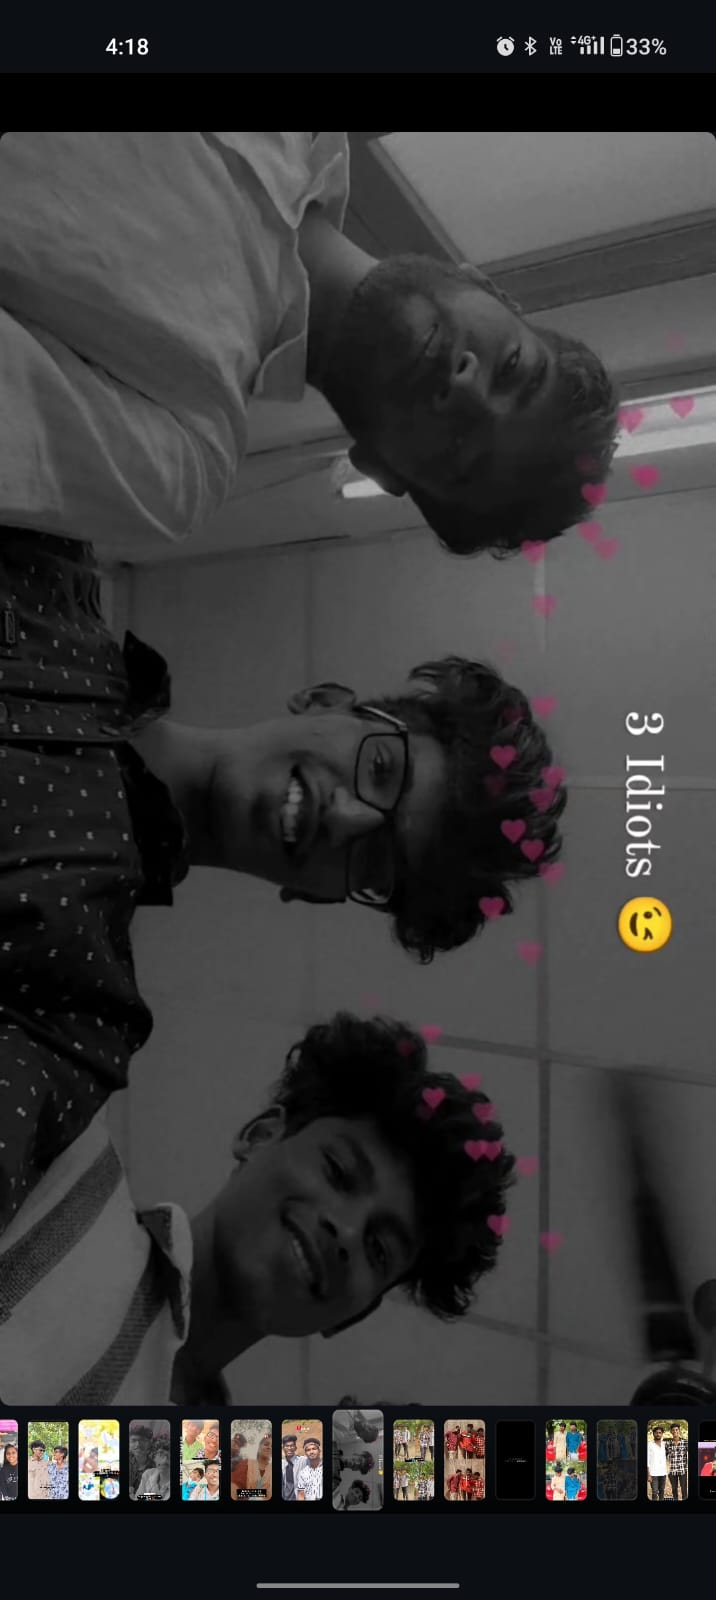
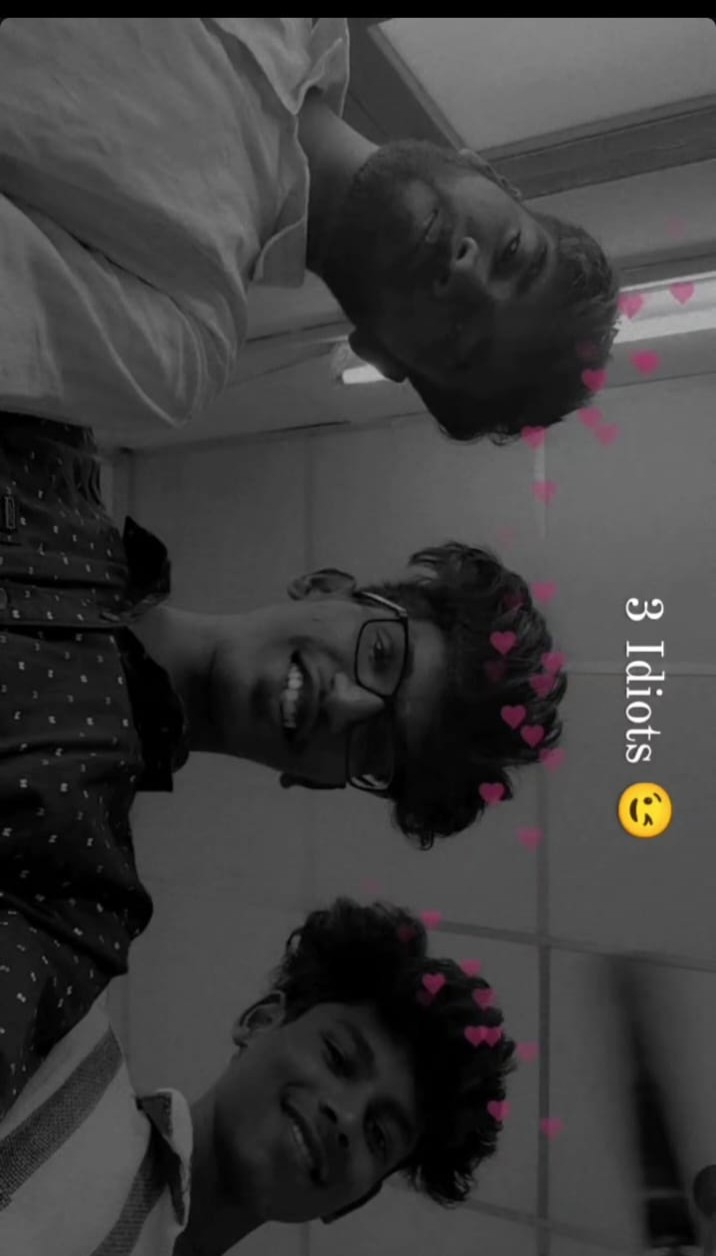
Update website

diff --git a/gallery.html b/gallery.html
@@ -646,11 +646,7 @@
                             style="width:100% !important; height:auto !important; border-radius:16px !important; display:block !important; object-fit:cover !important;">
                         <div class="card-caption">Group Image 069 • Madura College</div>
                     </div>
-                    <div class="pinterest-masonry-card revealed" onclick="window.openPageLightbox(this)">
-                        <div class="gallery-badge"><i class="fas fa-users"></i> Group Image 070</div><img src="images/gallery/gallery_070.jpg" class="card-media-img" loading="lazy"
-                            style="width:100% !important; height:auto !important; border-radius:16px !important; display:block !important; object-fit:cover !important;">
-                        <div class="card-caption">Group Image 070 • Madura College</div>
-                    </div>
+                   
                     <div class="pinterest-masonry-card revealed" onclick="window.openPageLightbox(this)">
                         <div class="gallery-badge"><i class="fas fa-users"></i> Group Image 071</div><img src="images/gallery/gallery_071.jpg" class="card-media-img" loading="lazy"
                             style="width:100% !important; height:auto !important; border-radius:16px !important; display:block !important; object-fit:cover !important;">
